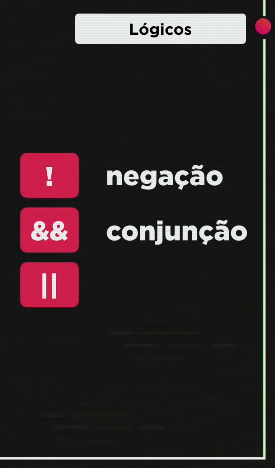
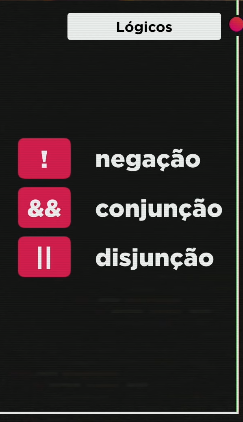
aula06

diff --git a/aula06/index.html b/aula06/index.html
@@ -1,5 +1,6 @@
 <!DOCTYPE html>
 <html lang="pt-br">
+
 <head>
     <meta charset="UTF-8">
     <meta http-equiv="X-UA-Compatible" content="IE=edge">
@@ -9,13 +10,32 @@
     <script src="script.js"></script>
     <title>Document</title>
 </head>
+
 <body>
-    <div id="container">
+    <div class="container">
         <img src="img/dica10.png" alt="img10">
         <img src="img/dica11.png" alt="img11">
         <img src="img/dica12.png" alt="img12">
         <img src="img/Dica9.png" alt="img09">
     </div>
-    
+    <div class="container">
+        <img src="img/dica8.png" alt="img10">
+        <img src="img/dica7.png" alt="img11">
+    </div>
+    <div class="container">
+        <img src="img/dica6.png" alt="img12">
+    </div>
+    <div class="container">
+        <img src="img/dica5.png" alt="img09">
+    </div>
+    <div class="container">
+        <img src="img/dica13.png" alt="img09">
+    </div>
+    <div class="container">
+        <img src="img/dica14.png" alt="img09">
+    </div>
+
+
 </body>
+
 </html>

diff --git a/aula06/script.js b/aula06/script.js
@@ -3,3 +3,7 @@ let saldoHoras=0;
 let horasTrabalhadas=prompt('Informe o total de horas trabalhadas do funcionário nessa semana:','Digite aqui');
 saldoHoras=horasTrabalhadas-cargaHorariaSemanal;
 if(saldoHoras>0){alert('O funcionário fez '+saldoHoras+' hora(s) extra(s) nesta semana');}else if(saldoHoras<0){alert('O funcionário está devendo'+(saldoHoras*-1)+'hora(s) nesta semana');}else{alert('O funcionário não possui hora extra essa semana');}
+
+let idade=prompt('informe sua idade','digite aqui');
+let resposta= idade >=18?'Maior':'Menor';
+alert(resposta);

diff --git a/aula06/style.css b/aula06/style.css
@@ -4,7 +4,7 @@ padding: 0;
 margin: 0;
 box-sizing: border-box;
 }
-#container{
+.container{
     display: flex;
     gap: 10px;
     margin: 10px;
